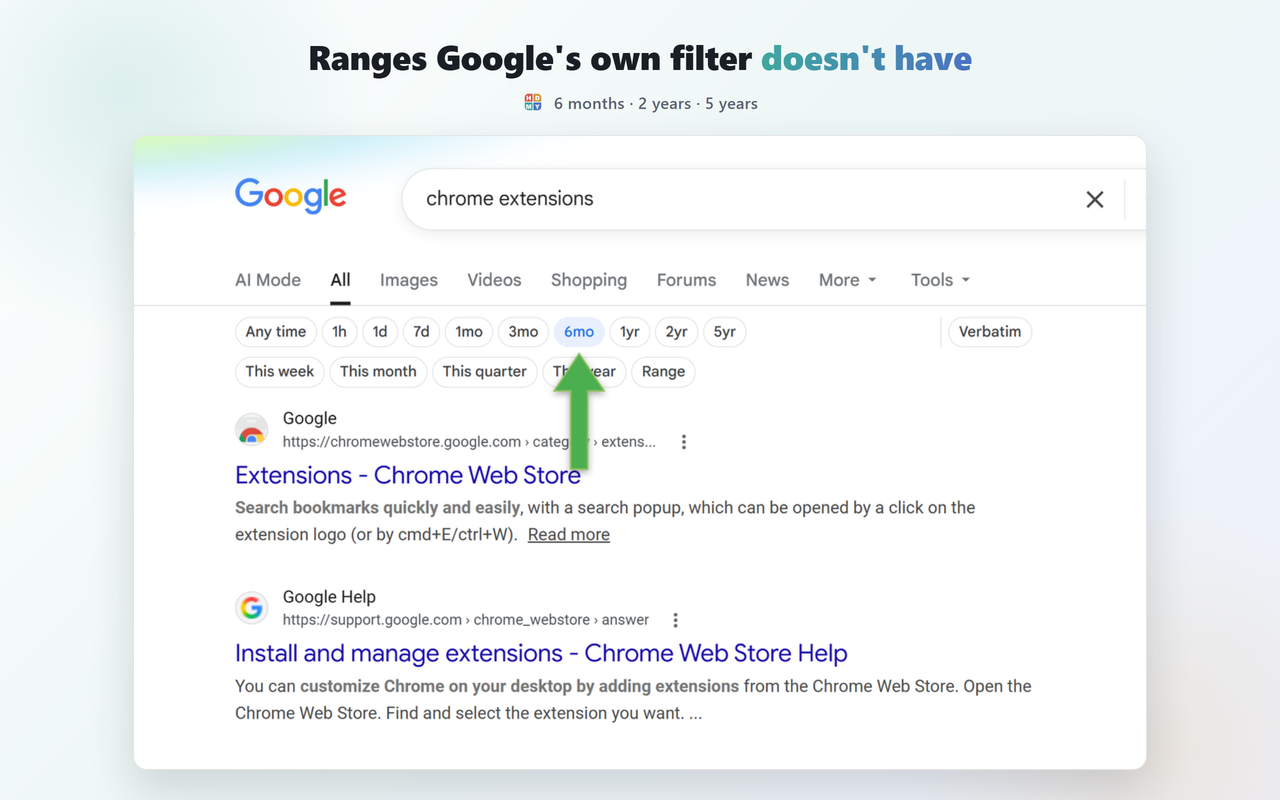
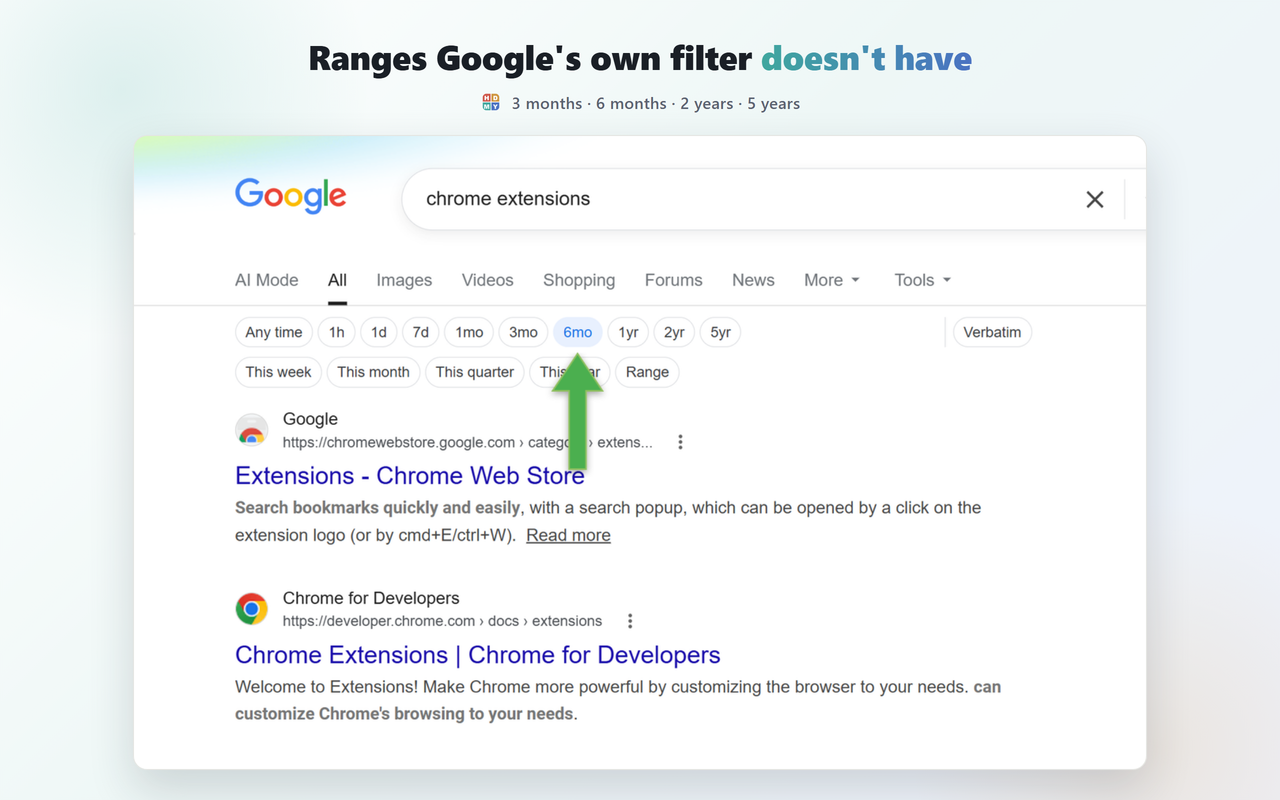
Rename extension and rewrite the store description

diff --git a/scripts/generate-banners.js b/scripts/generate-banners.js
@@ -46,7 +46,7 @@ function marqueeHtml() {
 			<div style="flex:0 0 460px;">
 				<div style="display:flex;align-items:center;gap:16px;margin-bottom:22px;">
 					<img src="${ICON}" style="width:56px;height:56px;border-radius:13px;">
-					<div style="font-size:22px;font-weight:700;color:#8a92a0;letter-spacing:1.8px;text-transform:uppercase;">Search Date Bar</div>
+					<div style="font-size:22px;font-weight:700;color:#8a92a0;letter-spacing:1.8px;text-transform:uppercase;">Google Search by Date</div>
 				</div>
 				<div style="display:flex;gap:6px;margin-bottom:20px;">${dashMarks(6)}</div>
 				<div style="font-size:44px;font-weight:800;color:#f5f6f7;line-height:1.12;letter-spacing:-0.5px;">${HEADLINE}</div>
@@ -72,11 +72,11 @@ function smallTileHtml() {
 		<div style="position:relative;z-index:2;padding:16px 20px 0;">
 			<div style="display:flex;align-items:center;gap:10px;margin-bottom:6px;">
 				<img src="${ICON}" style="width:28px;height:28px;border-radius:7px;">
-				<div style="font-size:11px;font-weight:700;color:#8a92a0;letter-spacing:1.2px;text-transform:uppercase;">Search Date Bar</div>
+				<div style="font-size:11px;font-weight:700;color:#8a92a0;letter-spacing:1.2px;text-transform:uppercase;">Google Search by Date</div>
 			</div>
 			<div style="font-size:20px;font-weight:800;color:#f5f6f7;line-height:1.16;letter-spacing:-0.3px;white-space:nowrap;">Every date range, one click away</div>
 		</div>
-		<div style="position:absolute;left:20px;right:20px;bottom:18px;height:132px;border-radius:10px;overflow:hidden;
+		<div style="position:absolute;left:20px;right:20px;top:108px;bottom:18px;border-radius:10px;overflow:hidden;
 			box-shadow:0 10px 26px rgba(0,0,0,0.4);z-index:2;">
 			<img src="${SHOT}" style="width:100%;height:100%;object-fit:cover;object-position:top left;">
 		</div>

diff --git a/tests/visual-qa/gallery.js b/tests/visual-qa/gallery.js
@@ -69,7 +69,7 @@ ${figures}
 		})
 		.join('\n');
 
-	const html = `<title>Search Date Bar — Visual QA Gallery</title>
+	const html = `<title>Google Search by Date — Visual QA Gallery</title>
 <style>
   :root {
     --bg: #f6f5f2; --panel: #ffffff; --ink: #201f1c; --muted: #6b6862;
@@ -93,7 +93,7 @@ ${figures}
   figcaption { padding: 8px 12px; font-size: 12px; color: var(--muted); border-top: 1px solid var(--line); text-transform: capitalize; }
 </style>
 <main>
-  <h1>Search Date Bar — Visual QA Gallery</h1>
+  <h1>Google Search by Date — Visual QA Gallery</h1>
   <p class="lede">Real screenshots from live google.com pages with the extension loaded, across varied page types, extension states, native menu interactions, and locales. Generated by tests/visual-qa/.</p>
 ${sections}
 </main>

diff --git a/scripts/generate-screenshots.js b/scripts/generate-screenshots.js
@@ -170,7 +170,7 @@ const SCREENSHOTS = [
 		arrowGap: 4,
 		arrow: { height: 150, color: '#4CAF50', strokeColor: '#8fbf5f' },
 		headline: "Ranges Google's own filter **doesn't have**",
-		featureLabel: '6 months · 2 years · 5 years',
+		featureLabel: '3 months · 6 months · 2 years · 5 years',
 		// Plain shot (no card) for generate-banners.js to embed.
 		plainCopyPath: '../assets/banner-shot.png',
 	},

diff --git a/scripts/release.js b/scripts/release.js
@@ -19,7 +19,7 @@ const manifest = JSON.parse(fs.readFileSync(path.join(SRC_DIR, 'manifest.json'),
 const version = manifest.version;
 
 fs.mkdirSync(OUT_DIR, { recursive: true });
-const outPath = path.join(OUT_DIR, `search-date-bar-v${version}.zip`);
+const outPath = path.join(OUT_DIR, `google-search-by-date-v${version}.zip`);
 if (fs.existsSync(outPath)) {
 	console.error(`${outPath} already exists — bump the version first.`);
 	process.exit(1);

diff --git a/README.md b/README.md
@@ -1,8 +1,8 @@
-# Search Date Bar
+# Google Search by Date – Date Filter Bar with Custom Ranges
 
 A Chrome extension that puts Google's date filter (Past hour, Past day, Past week...) right under the search box, instead of buried in the Tools dropdown — plus ranges Google doesn't offer at all (3/6 months, 2/5 years), calendar-aligned presets (this week/month/quarter/year), and a custom date-range picker.
 
-![Search Date Bar in action](screenshots/img1_ranges.png)
+![Google Search by Date in action](screenshots/img1_ranges.png)
 
 ## Install
 